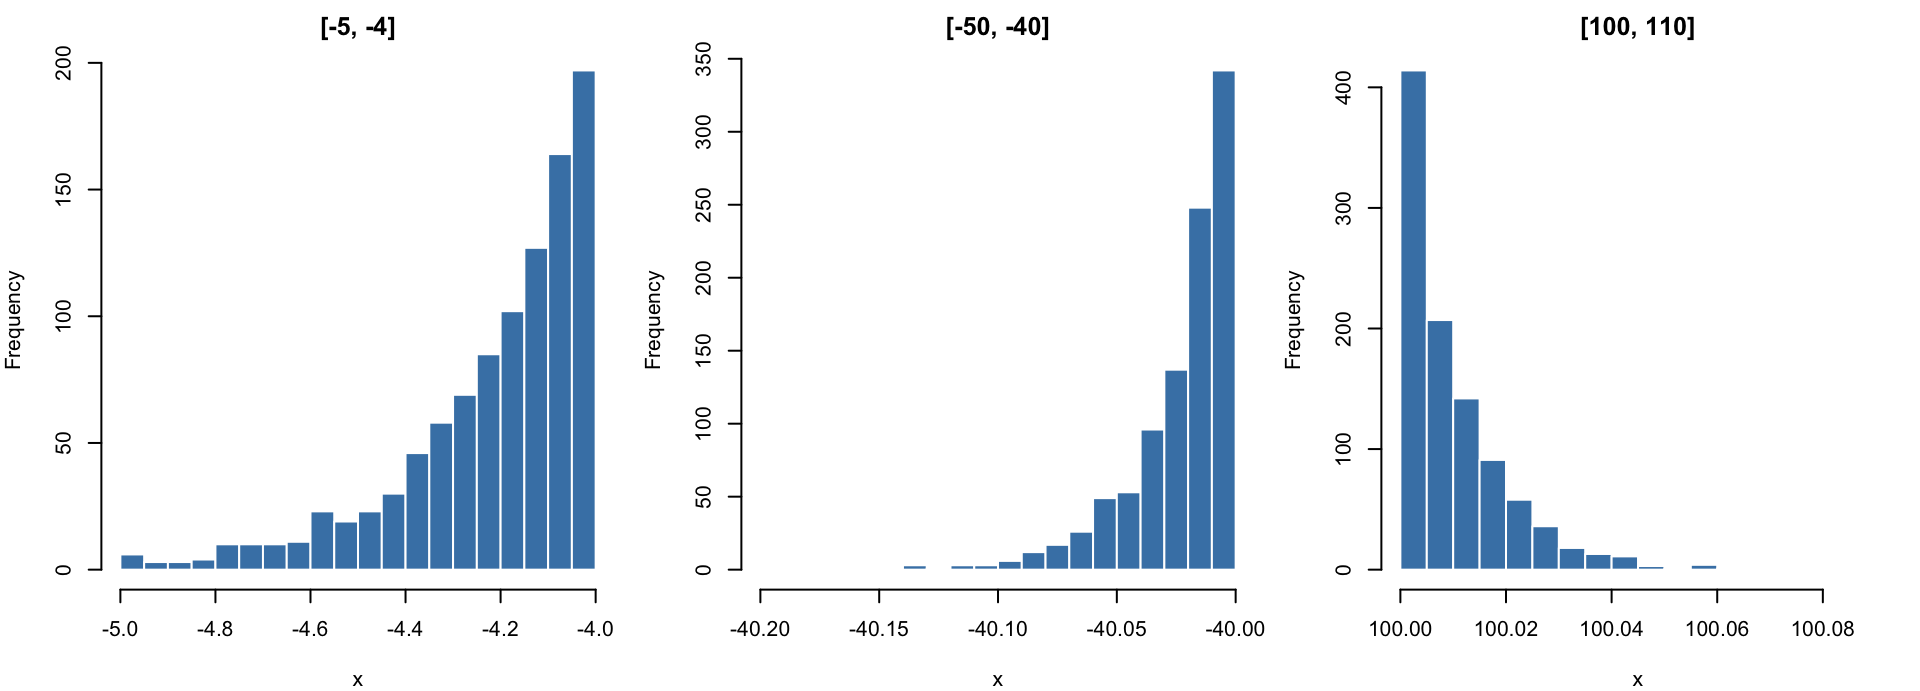
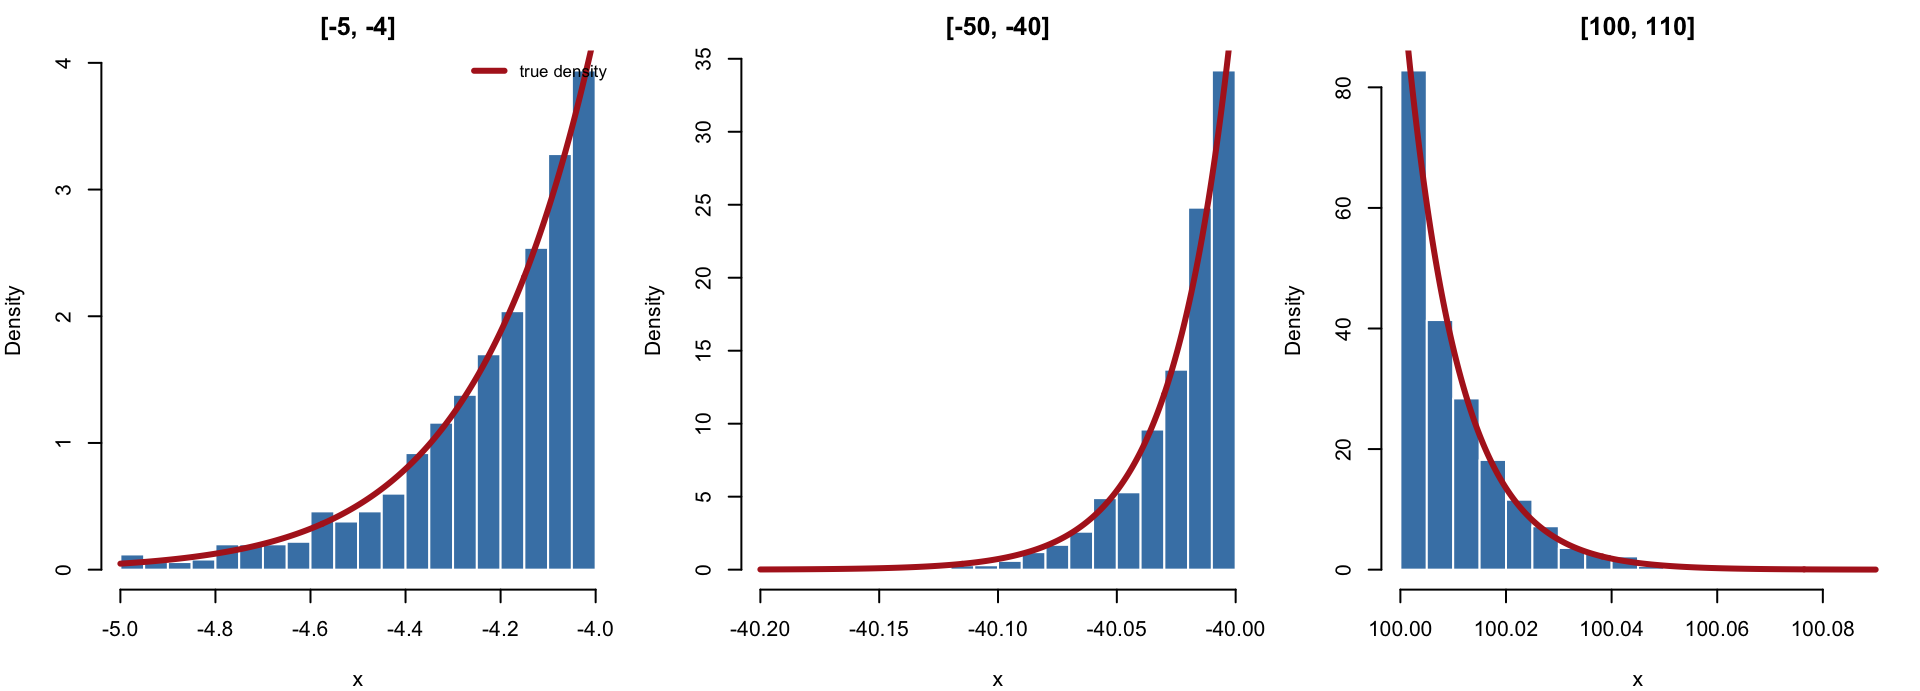
git_sync from KNW5YYVTFD on 2026-09-14 17:16

diff --git a/chapters/unit11_rejection_sampling.html b/chapters/unit11_rejection_sampling.html
@@ -299,7 +299,7 @@ window.Quarto = {
   <li><a href="#log-concavity-and-the-tangent-hull" id="toc-log-concavity-and-the-tangent-hull" class="nav-link" data-scroll-target="#log-concavity-and-the-tangent-hull"><span class="header-section-number">11.4.1</span> Log-concavity and the tangent hull</a></li>
   <li><a href="#the-adaptive-algorithm" id="toc-the-adaptive-algorithm" class="nav-link" data-scroll-target="#the-adaptive-algorithm"><span class="header-section-number">11.4.2</span> The adaptive algorithm</a></li>
   <li><a href="#example-3-truncated-normal" id="toc-example-3-truncated-normal" class="nav-link" data-scroll-target="#example-3-truncated-normal"><span class="header-section-number">11.4.3</span> Example 3: Truncated Normal</a></li>
-  <li><a href="#sec-ars-app" id="toc-sec-ars-app" class="nav-link" data-scroll-target="#sec-ars-app"><span class="header-section-number">11.4.4</span> Trying it interactively: stepping through the hull tightening</a></li>
+  <li><a href="#sec-ars-app" id="toc-sec-ars-app" class="nav-link" data-scroll-target="#sec-ars-app"><span class="header-section-number">11.4.4</span> Animation for Illustrating ARS</a></li>
   </ul></li>
   <li><a href="#summary" id="toc-summary" class="nav-link" data-scroll-target="#summary"><span class="header-section-number">11.5</span> Summary</a></li>
   </ul>
@@ -886,7 +886,7 @@ shinyApp(ui, server)</code></pre>
 </section>
 <section id="example-3-truncated-normal" class="level3" data-number="11.4.3">
 <h3 data-number="11.4.3" class="anchored" data-anchor-id="example-3-truncated-normal"><span class="header-section-number">11.4.3</span> Example 3: Truncated Normal</h3>
-<p>The normal density is log-concave, so <code>ars</code> applies directly to a normal truncated to <span class="math inline">\([l, u]\)</span> — useful whenever a parameter has a hard bound (a variance, a probability, a physically constrained rate).</p>
+<p>The standard normal is log-concave (<span class="math inline">\(\log f(x) = -x^2/2\)</span> is concave), and truncating to <span class="math inline">\([l, u]\)</span> only shrinks the domain — it cannot break concavity — so a truncated normal is log-concave too, and <code>ars</code> applies to it directly. This makes it a clean test case for comparing ARS against the most obvious alternative: sample the <em>untruncated</em> <span class="math inline">\(N(0,1)\)</span> and throw away anything outside <span class="math inline">\([l, u]\)</span>. That naive sampler is itself a (trivial) rejection sampler, with envelope <span class="math inline">\(g\)</span> equal to the untruncated normal, so it is exactly correct — but its acceptance rate is just <span class="math inline">\(P(l&lt;Z&lt;u)\)</span>, which collapses to essentially <span class="math inline">\(0\)</span> once <span class="math inline">\([l, u]\)</span> sits out in the tail. ARS has no such weakness: its hull is built from the <em>truncated</em> target from the start, so it never proposes a point outside <span class="math inline">\([l, u]\)</span> in the first place, and its acceptance rate stays high regardless of where the window sits.</p>
 <div class="cell">
 <details class="code-fold">
 <summary>Code</summary>
@@ -970,13 +970,34 @@ Table&nbsp;11.3: Adaptive rejection sampling (ars) vs naive rejection sampling f
 <div class="cell">
 <details class="code-fold">
 <summary>Code</summary>
-<div class="code-copy-outer-scaffold"><div class="sourceCode cell-code" id="cb15"><pre class="sourceCode r code-with-copy"><code class="sourceCode r"><span id="cb15-1"><a href="#cb15-1" aria-hidden="true" tabindex="-1"></a><span class="fu">par</span>(<span class="at">mfrow =</span> <span class="fu">c</span>(<span class="dv">1</span>, <span class="dv">3</span>), <span class="at">mar =</span> <span class="fu">c</span>(<span class="dv">4</span>, <span class="dv">4</span>, <span class="dv">2</span>, <span class="dv">1</span>))</span>
-<span id="cb15-2"><a href="#cb15-2" aria-hidden="true" tabindex="-1"></a><span class="fu">set.seed</span>(<span class="dv">5</span>)</span>
-<span id="cb15-3"><a href="#cb15-3" aria-hidden="true" tabindex="-1"></a><span class="cf">for</span> (w <span class="cf">in</span> windows) {</span>
-<span id="cb15-4"><a href="#cb15-4" aria-hidden="true" tabindex="-1"></a>    x <span class="ot">&lt;-</span> <span class="fu">sample_tnorm_ars</span>(n, w[<span class="dv">1</span>], w[<span class="dv">2</span>])</span>
-<span id="cb15-5"><a href="#cb15-5" aria-hidden="true" tabindex="-1"></a>    <span class="fu">hist</span>(x, <span class="at">breaks =</span> <span class="dv">25</span>, <span class="at">col =</span> <span class="st">"steelblue"</span>, <span class="at">border =</span> <span class="st">"white"</span>,</span>
-<span id="cb15-6"><a href="#cb15-6" aria-hidden="true" tabindex="-1"></a>         <span class="at">main =</span> <span class="fu">sprintf</span>(<span class="st">"[%g, %g]"</span>, w[<span class="dv">1</span>], w[<span class="dv">2</span>]), <span class="at">xlab =</span> <span class="st">"x"</span>)</span>
-<span id="cb15-7"><a href="#cb15-7" aria-hidden="true" tabindex="-1"></a>}</span></code></pre></div><button title="Copy to Clipboard" class="code-copy-button"><i class="bi"></i></button></div>
+<div class="code-copy-outer-scaffold"><div class="sourceCode cell-code" id="cb15"><pre class="sourceCode r code-with-copy"><code class="sourceCode r"><span id="cb15-1"><a href="#cb15-1" aria-hidden="true" tabindex="-1"></a><span class="do">### log(pnorm(ub) - pnorm(lb)), numerically stable even when the naive</span></span>
+<span id="cb15-2"><a href="#cb15-2" aria-hidden="true" tabindex="-1"></a><span class="do">### difference underflows to 0 for windows far out in either tail</span></span>
+<span id="cb15-3"><a href="#cb15-3" aria-hidden="true" tabindex="-1"></a>log_pnorm_diff <span class="ot">&lt;-</span> <span class="cf">function</span>(lb, ub) {</span>
+<span id="cb15-4"><a href="#cb15-4" aria-hidden="true" tabindex="-1"></a>    <span class="cf">if</span> (ub <span class="sc">&lt;=</span> <span class="dv">0</span>) {</span>
+<span id="cb15-5"><a href="#cb15-5" aria-hidden="true" tabindex="-1"></a>        log_pu <span class="ot">&lt;-</span> <span class="fu">pnorm</span>(ub, <span class="at">log.p =</span> <span class="cn">TRUE</span>); log_pl <span class="ot">&lt;-</span> <span class="fu">pnorm</span>(lb, <span class="at">log.p =</span> <span class="cn">TRUE</span>)</span>
+<span id="cb15-6"><a href="#cb15-6" aria-hidden="true" tabindex="-1"></a>        log_pu <span class="sc">+</span> <span class="fu">log1p</span>(<span class="sc">-</span><span class="fu">exp</span>(log_pl <span class="sc">-</span> log_pu))</span>
+<span id="cb15-7"><a href="#cb15-7" aria-hidden="true" tabindex="-1"></a>    } <span class="cf">else</span> <span class="cf">if</span> (lb <span class="sc">&gt;=</span> <span class="dv">0</span>) {</span>
+<span id="cb15-8"><a href="#cb15-8" aria-hidden="true" tabindex="-1"></a>        log_su <span class="ot">&lt;-</span> <span class="fu">pnorm</span>(ub, <span class="at">lower.tail =</span> <span class="cn">FALSE</span>, <span class="at">log.p =</span> <span class="cn">TRUE</span>)</span>
+<span id="cb15-9"><a href="#cb15-9" aria-hidden="true" tabindex="-1"></a>        log_sl <span class="ot">&lt;-</span> <span class="fu">pnorm</span>(lb, <span class="at">lower.tail =</span> <span class="cn">FALSE</span>, <span class="at">log.p =</span> <span class="cn">TRUE</span>)</span>
+<span id="cb15-10"><a href="#cb15-10" aria-hidden="true" tabindex="-1"></a>        log_sl <span class="sc">+</span> <span class="fu">log1p</span>(<span class="sc">-</span><span class="fu">exp</span>(log_su <span class="sc">-</span> log_sl))</span>
+<span id="cb15-11"><a href="#cb15-11" aria-hidden="true" tabindex="-1"></a>    } <span class="cf">else</span> {</span>
+<span id="cb15-12"><a href="#cb15-12" aria-hidden="true" tabindex="-1"></a>        <span class="fu">log</span>(<span class="fu">pnorm</span>(ub) <span class="sc">-</span> <span class="fu">pnorm</span>(lb))</span>
+<span id="cb15-13"><a href="#cb15-13" aria-hidden="true" tabindex="-1"></a>    }</span>
+<span id="cb15-14"><a href="#cb15-14" aria-hidden="true" tabindex="-1"></a>}</span>
+<span id="cb15-15"><a href="#cb15-15" aria-hidden="true" tabindex="-1"></a>tnorm_density <span class="ot">&lt;-</span> <span class="cf">function</span>(x, lb, ub) <span class="fu">exp</span>(<span class="fu">dnorm</span>(x, <span class="at">log =</span> <span class="cn">TRUE</span>) <span class="sc">-</span> <span class="fu">log_pnorm_diff</span>(lb, ub))</span>
+<span id="cb15-16"><a href="#cb15-16" aria-hidden="true" tabindex="-1"></a></span>
+<span id="cb15-17"><a href="#cb15-17" aria-hidden="true" tabindex="-1"></a><span class="fu">par</span>(<span class="at">mfrow =</span> <span class="fu">c</span>(<span class="dv">1</span>, <span class="dv">3</span>), <span class="at">mar =</span> <span class="fu">c</span>(<span class="dv">4</span>, <span class="dv">4</span>, <span class="dv">2</span>, <span class="dv">1</span>))</span>
+<span id="cb15-18"><a href="#cb15-18" aria-hidden="true" tabindex="-1"></a><span class="fu">set.seed</span>(<span class="dv">5</span>)</span>
+<span id="cb15-19"><a href="#cb15-19" aria-hidden="true" tabindex="-1"></a><span class="cf">for</span> (w <span class="cf">in</span> windows) {</span>
+<span id="cb15-20"><a href="#cb15-20" aria-hidden="true" tabindex="-1"></a>    x <span class="ot">&lt;-</span> <span class="fu">sample_tnorm_ars</span>(n, w[<span class="dv">1</span>], w[<span class="dv">2</span>])</span>
+<span id="cb15-21"><a href="#cb15-21" aria-hidden="true" tabindex="-1"></a>    <span class="fu">hist</span>(x, <span class="at">breaks =</span> <span class="dv">25</span>, <span class="at">freq =</span> <span class="cn">FALSE</span>, <span class="at">col =</span> <span class="st">"steelblue"</span>, <span class="at">border =</span> <span class="st">"white"</span>,</span>
+<span id="cb15-22"><a href="#cb15-22" aria-hidden="true" tabindex="-1"></a>         <span class="at">main =</span> <span class="fu">sprintf</span>(<span class="st">"[%g, %g]"</span>, w[<span class="dv">1</span>], w[<span class="dv">2</span>]), <span class="at">xlab =</span> <span class="st">"x"</span>)</span>
+<span id="cb15-23"><a href="#cb15-23" aria-hidden="true" tabindex="-1"></a>    <span class="fu">curve</span>(<span class="fu">tnorm_density</span>(x, w[<span class="dv">1</span>], w[<span class="dv">2</span>]), <span class="at">add =</span> <span class="cn">TRUE</span>, <span class="at">lwd =</span> <span class="dv">3</span>, <span class="at">col =</span> <span class="st">"firebrick"</span>, <span class="at">n =</span> <span class="dv">300</span>)</span>
+<span id="cb15-24"><a href="#cb15-24" aria-hidden="true" tabindex="-1"></a>    <span class="cf">if</span> (<span class="fu">identical</span>(w, windows[[<span class="dv">1</span>]])) {</span>
+<span id="cb15-25"><a href="#cb15-25" aria-hidden="true" tabindex="-1"></a>        <span class="fu">legend</span>(<span class="st">"topright"</span>, <span class="at">bty =</span> <span class="st">"n"</span>, <span class="at">lwd =</span> <span class="dv">3</span>, <span class="at">col =</span> <span class="st">"firebrick"</span>, <span class="at">cex =</span> <span class="fl">0.8</span>,</span>
+<span id="cb15-26"><a href="#cb15-26" aria-hidden="true" tabindex="-1"></a>               <span class="at">legend =</span> <span class="st">"true density"</span>)</span>
+<span id="cb15-27"><a href="#cb15-27" aria-hidden="true" tabindex="-1"></a>    }</span>
+<span id="cb15-28"><a href="#cb15-28" aria-hidden="true" tabindex="-1"></a>}</span></code></pre></div><button title="Copy to Clipboard" class="code-copy-button"><i class="bi"></i></button></div>
 </details>
 <div class="cell-output-display">
 <div id="fig-ars" class="quarto-float quarto-figure quarto-figure-center anchored">
@@ -985,7 +1006,7 @@ Table&nbsp;11.3: Adaptive rejection sampling (ars) vs naive rejection sampling f
 <img src="unit11_rejection_sampling_files/figure-html/fig-ars-1.png" class="img-fluid figure-img" width="960">
 </div>
 <figcaption class="quarto-float-caption-bottom quarto-float-caption quarto-float-fig" id="fig-ars-caption-0ceaefa1-69ba-4598-a22c-09a6ac19f8ca">
-Figure&nbsp;11.3: Histograms of adaptive-rejection-sampled draws in three increasingly extreme truncation windows: ars has no trouble with any of them.
+Figure&nbsp;11.3: Histograms of adaptive-rejection-sampled draws against the true truncated-normal density (red), in three increasingly extreme truncation windows: ars matches the target exactly regardless of where the window sits, only the cost per draw changes (<a href="#tbl-ars-timing" class="quarto-xref">Table&nbsp;<span>11.3</span></a>).
 </figcaption>
 </figure>
 </div>
@@ -993,7 +1014,7 @@ Figure&nbsp;11.3: Histograms of adaptive-rejection-sampled draws in three increa
 </div>
 </section>
 <section id="sec-ars-app" class="level3" data-number="11.4.4">
-<h3 data-number="11.4.4" class="anchored" data-anchor-id="sec-ars-app"><span class="header-section-number">11.4.4</span> Trying it interactively: stepping through the hull tightening</h3>
+<h3 data-number="11.4.4" class="anchored" data-anchor-id="sec-ars-app"><span class="header-section-number">11.4.4</span> Animation for Illustrating ARS</h3>
 <p>The <code>ars</code> package above is a black box: it returns samples but not the sequence of hulls it built along the way. The app below reimplements the same idea directly — start with a few tangent lines to <span class="math inline">\(\log f\)</span>, sample from the piecewise-exponential envelope they define, and whenever a candidate is <em>rejected</em>, add it as a new tangent point and rebuild the hull — one candidate at a time, so every step of the mechanism is visible. <strong>Next</strong> advances a single candidate; <strong>Play</strong> advances automatically. The top panel shows <span class="math inline">\(\log f\)</span> against the current hull (in log scale the hull is exactly piecewise-<em>linear</em>, since it is built from tangent lines), marking the most recent candidate as accepted (green dot) or rejected (black x, becoming a new tangent point). The bottom panel is a histogram of the accepted draws so far against the true truncated normal density. Controls: the target sample size, and the truncation limits <span class="math inline">\([l, u]\)</span> (changing the limits restarts the run). This app runs live only in the HTML edition of this book; readers of other formats can follow the link below it.</p>
 <pre class="shinylive-r" data-engine="r"><code>#| '!! shinylive warning !!': |
 #|   shinylive does not work in self-contained HTML documents.
@@ -1019,32 +1040,41 @@ build_hull &lt;- function(xs, lb, ub) {
     list(x = xs, hx = hx, hp = hpx, z = z)
 }
 
-### area under the exponential of a single tangent-line piece, between its breakpoints
-piece_area &lt;- function(hull, j) {
+### log-area under the exponential of a single tangent-line piece, between its
+### breakpoints -- computed entirely in log space so it stays finite even far
+### out in the tail, where exp(hull value) itself would underflow to exactly 0
+log_piece_area &lt;- function(hull, j) {
     a &lt;- hull$hx[j]; b &lt;- hull$hp[j]; xj &lt;- hull$x[j]
     lo &lt;- hull$z[j]; hi &lt;- hull$z[j + 1]
     val_lo &lt;- a + b * (lo - xj); val_hi &lt;- a + b * (hi - xj)
-    if (abs(b) &lt; 1e-10) exp(val_lo) * (hi - lo) else (exp(val_hi) - exp(val_lo)) / b
+    if (abs(b) &lt; 1e-10) return(val_lo + log(hi - lo))
+    m &lt;- max(val_lo, val_hi); d &lt;- min(val_lo, val_hi)
+    m + log1p(-exp(d - m)) - log(abs(b))
 }
 
 ### draw one point from the piecewise-exponential envelope: pick a piece
-### proportional to its area, then invert its (exponential) CDF within it
+### proportional to its area, then invert its (exponential) CDF within it --
+### both steps done on the log scale for the same underflow-safety reason
 sample_hull &lt;- function(hull) {
     k &lt;- length(hull$x)
-    areas &lt;- vapply(seq_len(k), function(j) piece_area(hull, j), numeric(1))
-    areas[!is.finite(areas) | areas &lt; 0] &lt;- 0
+    log_areas &lt;- vapply(seq_len(k), function(j) log_piece_area(hull, j), numeric(1))
+    log_areas[!is.finite(log_areas)] &lt;- -Inf
+    areas &lt;- exp(log_areas - max(log_areas))    # relative areas, safely in (0, 1]
     j &lt;- sample.int(k, 1, prob = areas)
     a &lt;- hull$hx[j]; b &lt;- hull$hp[j]; xj &lt;- hull$x[j]
     lo &lt;- hull$z[j]; hi &lt;- hull$z[j + 1]
     U &lt;- runif(1)
     if (abs(b) &lt; 1e-10) {
         x &lt;- lo + U * (hi - lo)
+        logg &lt;- a
     } else {
-        val_lo &lt;- a + b * (lo - xj)
-        target &lt;- exp(val_lo) + b * U * areas[j]
-        x &lt;- xj + (log(target) - a) / b
+        val_lo &lt;- a + b * (lo - xj); val_hi &lt;- a + b * (hi - xj)
+        m &lt;- max(val_lo, val_hi)
+        val_x &lt;- m + log((1 - U) * exp(val_lo - m) + U * exp(val_hi - m))
+        x &lt;- xj + (val_x - a) / b
+        logg &lt;- val_x
     }
-    list(x = x, logg = a + b * (x - xj))
+    list(x = x, logg = logg)
 }
 
 ### piecewise-linear hull value (log scale) at a vector of x's
@@ -1059,6 +1089,34 @@ init_hull &lt;- function(lb, ub) {
                                        ub - 0.25 * (ub - lb)), lb + 1e-6), ub - 1e-6)))
     build_hull(x_init, lb, ub)
 }
+
+### smart plotting window: view = [mode - 2, mode + 2], clipped to [lb, ub],
+### where "mode" is the peak of the density *within* the truncation window --
+### 0 if the window straddles it, otherwise whichever edge is nearest 0 (the
+### window is then entirely on one side of the peak, so the density is
+### monotonic and highest right at that edge). A wide window far out in the
+### tail (e.g. [100, 200]) would otherwise dilute the whole plot into a
+### mostly-flat, uninformative sliver near that one edge.
+smart_xlim &lt;- function(lb, ub) {
+    m &lt;- if (lb &gt;= 0) lb else if (ub &lt;= 0) ub else 0
+    c(max(lb, m - 2), min(ub, m + 2))
+}
+
+### log(pnorm(ub) - pnorm(lb)), numerically stable even when the naive
+### difference underflows to 0 for windows far out in either tail
+log_pnorm_diff &lt;- function(lb, ub) {
+    if (ub &lt;= 0) {
+        log_pu &lt;- pnorm(ub, log.p = TRUE); log_pl &lt;- pnorm(lb, log.p = TRUE)
+        log_pu + log1p(-exp(log_pl - log_pu))
+    } else if (lb &gt;= 0) {
+        log_su &lt;- pnorm(ub, lower.tail = FALSE, log.p = TRUE)
+        log_sl &lt;- pnorm(lb, lower.tail = FALSE, log.p = TRUE)
+        log_sl + log1p(-exp(log_su - log_sl))
+    } else {
+        log(pnorm(ub) - pnorm(lb))
+    }
+}
+tnorm_density &lt;- function(x, lb, ub) exp(dnorm(x, log = TRUE) - log_pnorm_diff(lb, ub))
 
 ui &lt;- fluidPage(
     titlePanel(NULL),
@@ -1166,7 +1224,8 @@ server &lt;- function(input, output, session) {
 
     output$panels &lt;- renderPlot({
         hull &lt;- rv$hull; lb &lt;- rv$lb; ub &lt;- rv$ub
-        xg &lt;- seq(lb, ub, length.out = 400)
+        dl &lt;- smart_xlim(lb, ub)
+        xg &lt;- seq(dl[1], dl[2], length.out = 400)
         hull_log &lt;- hull_val(hull, xg); target_log &lt;- h(xg)
 
         par(mfrow = c(2, 1), mar = c(4, 4, 3, 1))
@@ -1178,25 +1237,30 @@ server &lt;- function(input, output, session) {
         lines(xg, target_log, lwd = 2, col = "firebrick")
         points(hull$x, hull$hx, pch = 19, col = "gray20", cex = 0.9)
         abline(v = hull$z[-c(1, length(hull$z))], col = adjustcolor("gray40", 0.4), lty = 3)
+        abline(v = c(lb, ub), col = "darkorange", lty = 2)
         if (!is.null(rv$last_x)) {
             points(rv$last_x, h(rv$last_x), pch = if (rv$last_accept) 19 else 4,
                    col = if (rv$last_accept) "forestgreen" else "black", cex = 1.6, lwd = 2)
         }
         legend("bottomleft", bty = "n", cex = 0.85,
-               lwd = c(2, 2, NA, NA), pch = c(NA, NA, 19, 4),
-               col = c("steelblue", "firebrick", "forestgreen", "black"),
-               legend = c("log hull", "log target", "last: accepted", "last: rejected"))
+               lwd = c(2, 2, 1, NA, NA), lty = c(1, 1, 2, NA, NA), pch = c(NA, NA, NA, 19, 4),
+               col = c("steelblue", "firebrick", "darkorange", "forestgreen", "black"),
+               legend = c("log hull", "log target", "truncation limits", "last: accepted", "last: rejected"))
 
         if (length(rv$samples) == 0) {
-            plot(0, 0, type = "n", xlim = c(lb, ub), ylim = c(0, 1), xlab = "x", ylab = "",
+            plot(0, 0, type = "n", xlim = dl, ylim = c(0, 1), xlab = "x", ylab = "",
                  main = "no samples accepted yet")
         } else {
-            breaks &lt;- seq(lb, ub, length.out = 31)
+            ### scale the bin count so ~30 bins fall within the *visible* view,
+            ### not the full [lb, ub] window -- otherwise a wide window (e.g.
+            ### [100, 200] zoomed to [100, 102]) puts everything in one giant bin
+            n_bins &lt;- min(5000, max(30, ceiling(30 * (ub - lb) / (dl[2] - dl[1]))))
+            breaks &lt;- seq(lb, ub, length.out = n_bins + 1)
             hist(rv$samples, breaks = breaks, freq = FALSE, col = "steelblue", border = "white",
-                 xlim = c(lb, ub), xlab = "x",
+                 xlim = dl, xlab = "x",
                  main = sprintf("%d / %d samples%s", length(rv$samples), rv$target_n,
                                  if (rv$done) "  (done)" else ""))
-            curve(dnorm(x) / (pnorm(ub) - pnorm(lb)), add = TRUE, lwd = 3, col = "firebrick", n = 300)
+            curve(tnorm_density(x, lb, ub), add = TRUE, lwd = 3, col = "firebrick", n = 300)
             legend("topright", bty = "n", lwd = 3, col = "firebrick", legend = "true truncated-normal density")
         }
     })
